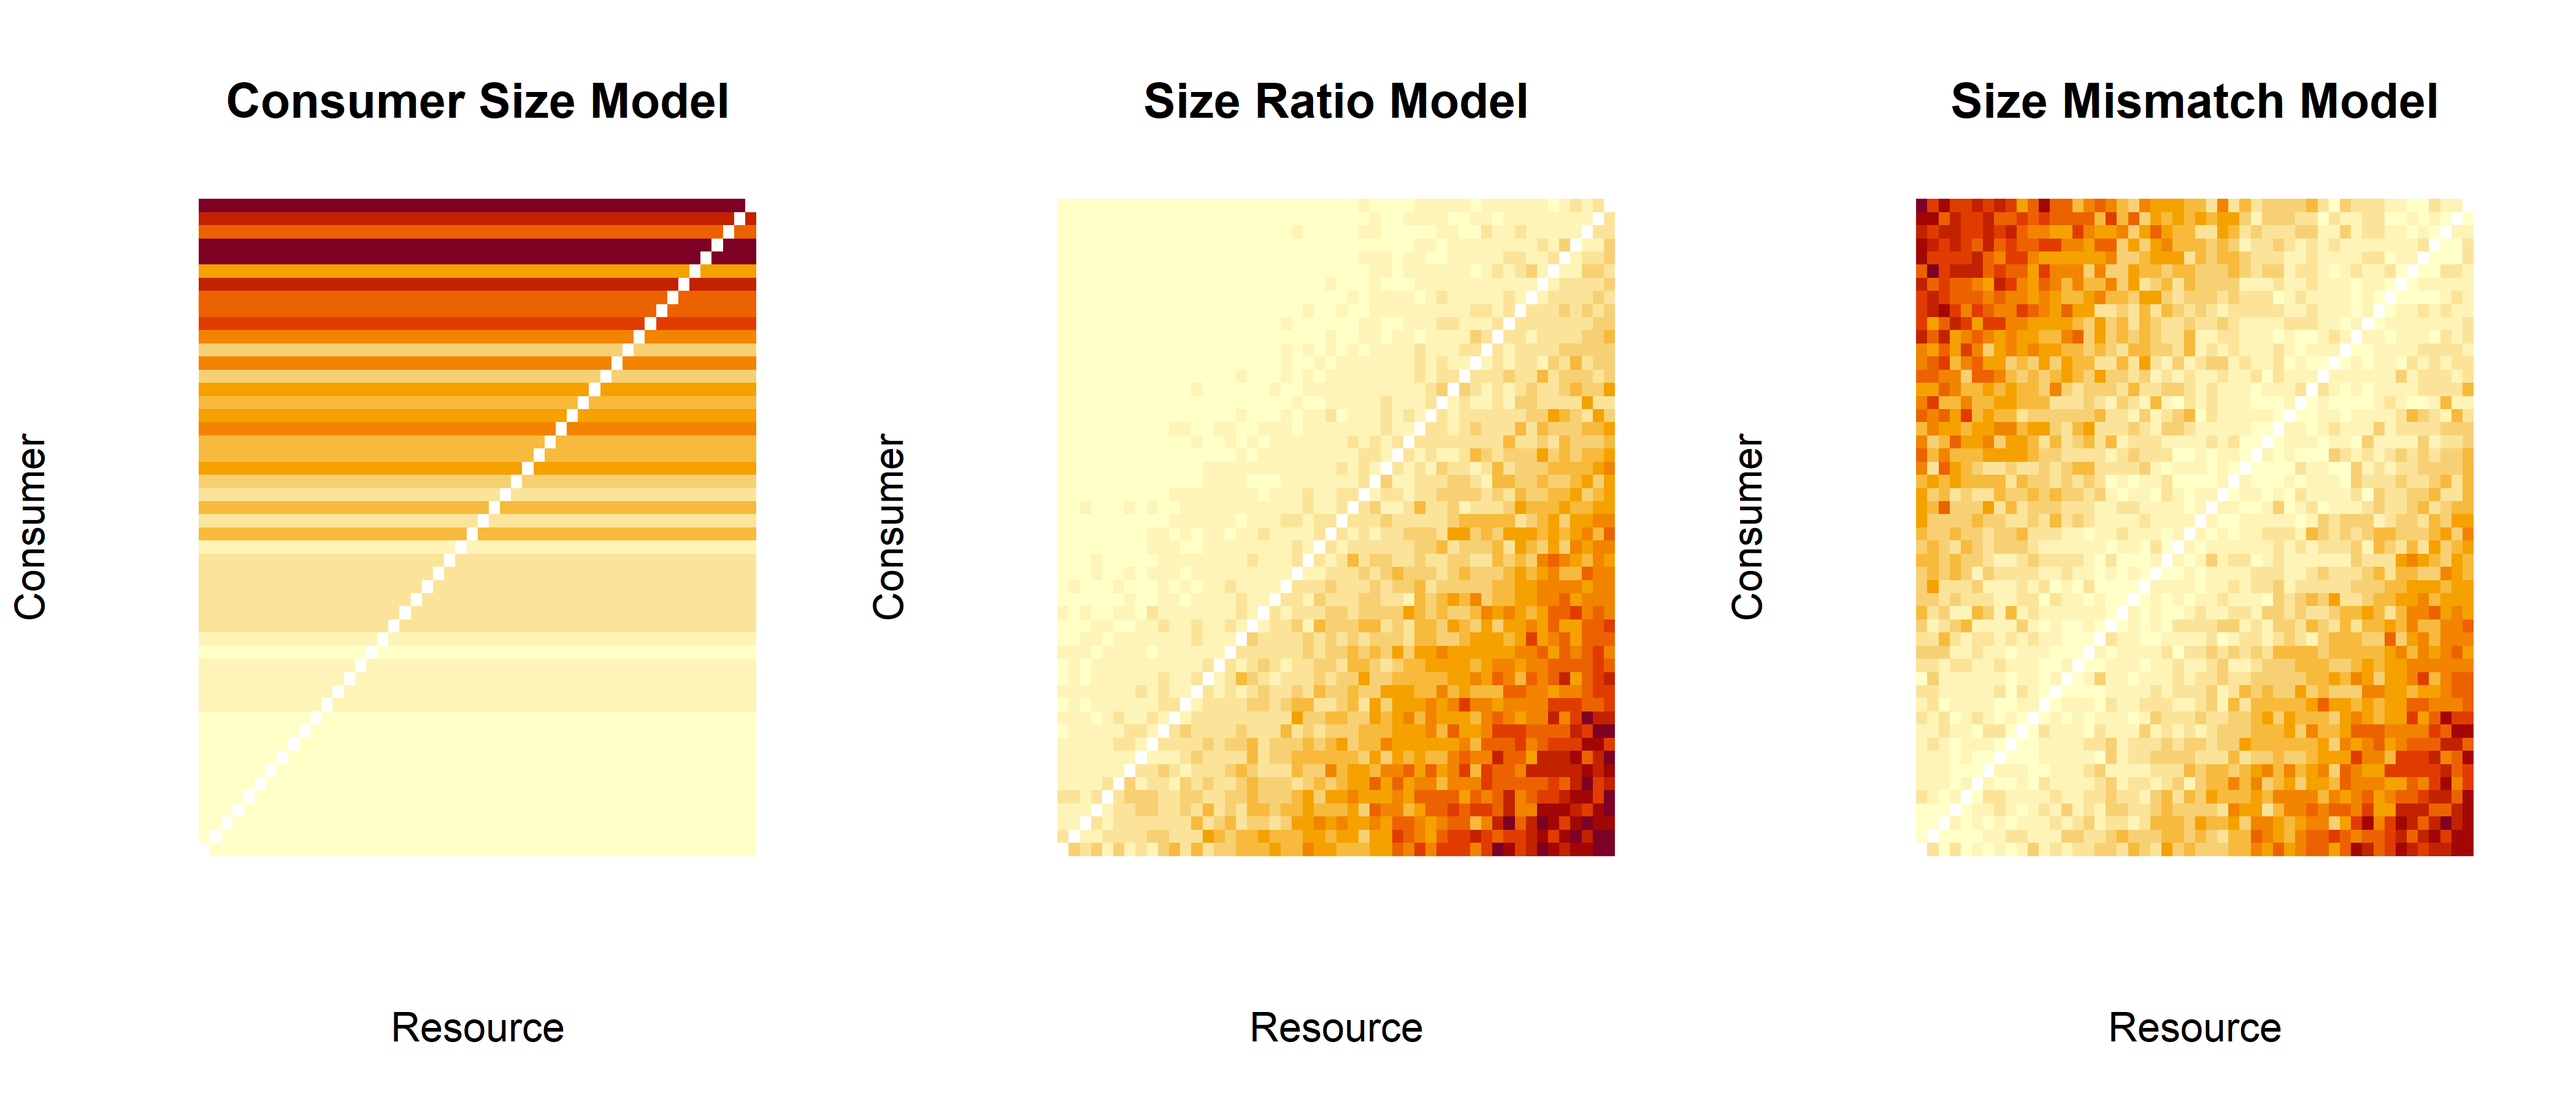
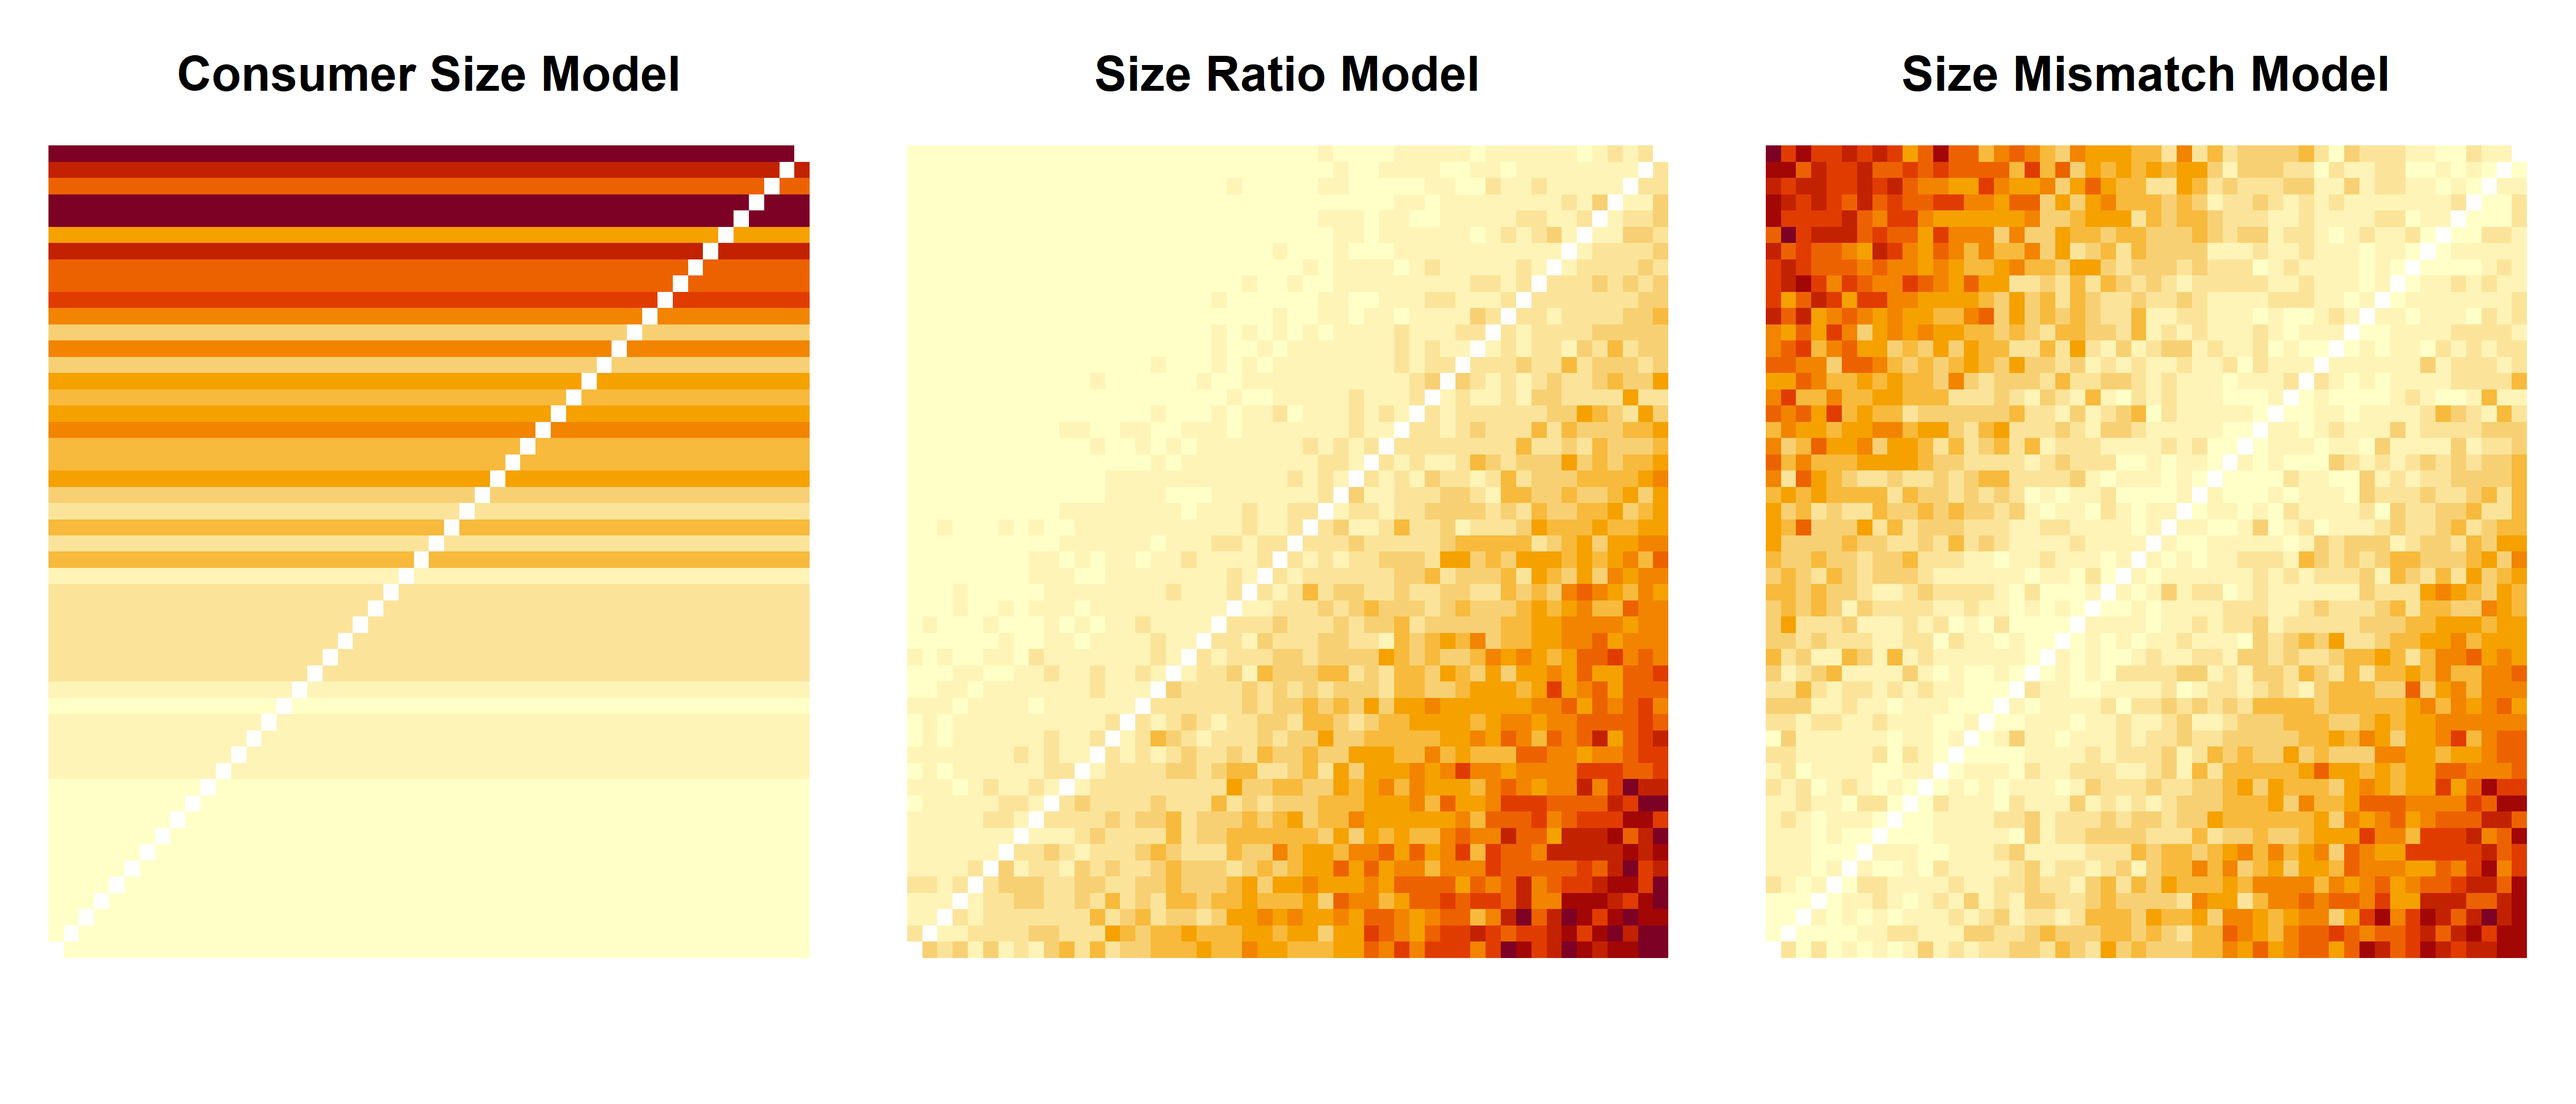
moar updates

diff --git a/docs/posts/2025-11-20-food-web-measurement-2/index.html b/docs/posts/2025-11-20-food-web-measurement-2/index.html
@@ -271,9 +271,9 @@ window.Quarto = {
 <p><span class="math display">\[
 \begin{align}
 A_{ij,k} &amp;\sim \text{Bernoulli}(q_{ij,k}) \\
-q_{ij,k} &amp;= p_k \phi_{ij,k} \\
+q_{ij,k} &amp;= p_k \pi_{ij,k} \\
 p_k &amp;= \text{logit}^{-1}(\mu_{p} + \delta_{p,k}) \\
-\phi_{ij,k} &amp;= \text{logit}^{-1}(\alpha_k + u_{i,k} + v_{j,k}) \\
+\pi_{ij,k} &amp;= \text{logit}^{-1}(\alpha_k + u_{i,k} + v_{j,k}) \\
 \alpha_k &amp;= \mu_{\alpha} + \sigma_{\alpha} \alpha^{(z)}_k \\
 u_{i,k} &amp;= \sigma_u u^{(z)}_{i,k} \\
 v_{j,k} &amp;= \sigma_v v^{(z)}_{j,k} \\
@@ -289,7 +289,7 @@ p^{(z)}_k, \alpha^{(z)}_k, u^{(z)}_{i,k},v^{(z)}_{j,k} &amp;\sim \mathcal{N}(0,1
 </thead>
 <tbody>
 <tr class="odd">
-<td><span class="math inline">\(\phi_{ij,k}\)</span></td>
+<td><span class="math inline">\(\pi_{ij,k}\)</span></td>
 <td>true ecological interaction probability</td>
 </tr>
 <tr class="even">
@@ -348,7 +348,7 @@ p^{(z)}_k, \alpha^{(z)}_k, u^{(z)}_{i,k},v^{(z)}_{j,k} &amp;\sim \mathcal{N}(0,1
 </section>
 <section id="size-ratio-model" class="level3">
 <h3 class="anchored" data-anchor-id="size-ratio-model">Size Ratio Model</h3>
-<p>An second approach could be that it is the ratio of <span class="math inline">\(M_i\)</span> to <span class="math inline">\(M_j\)</span> that influences detection. Since both covariates are on a log scale, we compute the difference between them and estimate the effect <span class="math inline">\(\beta_R\)</span>.</p>
+<p>An second approach could hypothesize that it is the ratio of <span class="math inline">\(M_i\)</span> to <span class="math inline">\(M_j\)</span> that influences detection. Since both covariates are on a log scale, we compute the difference between them and estimate the effect <span class="math inline">\(\beta_R\)</span>.</p>
 <p><span class="math display">\[
 \begin{align}
 \text{logit}(p_{ij,k}) &amp;= \mu_p + \beta_R (M_i - M_j) + \sigma_p p^{(z)}_{ij,k}
@@ -424,18 +424,18 @@ p^{(z)}_k, \alpha^{(z)}_k, u^{(z)}_{i,k},v^{(z)}_{j,k} &amp;\sim \mathcal{N}(0,1
 <div class="cell">
 <div class="sourceCode cell-code" id="cb2"><pre class="sourceCode r code-with-copy"><code class="sourceCode r"><span id="cb2-1"><a href="#cb2-1" aria-hidden="true" tabindex="-1"></a>order_idx <span class="ot">=</span> <span class="fu">order</span>(M)</span>
 <span id="cb2-2"><a href="#cb2-2" aria-hidden="true" tabindex="-1"></a></span>
-<span id="cb2-3"><a href="#cb2-3" aria-hidden="true" tabindex="-1"></a><span class="fu">par</span>(<span class="at">mfrow=</span><span class="fu">c</span>(<span class="dv">1</span>,<span class="dv">3</span>))</span>
+<span id="cb2-3"><a href="#cb2-3" aria-hidden="true" tabindex="-1"></a><span class="fu">par</span>(<span class="at">mfrow=</span><span class="fu">c</span>(<span class="dv">1</span>,<span class="dv">3</span>), <span class="at">mar=</span><span class="fu">c</span>(<span class="dv">3</span>,<span class="dv">1</span>,<span class="dv">3</span>,<span class="dv">1</span>))</span>
 <span id="cb2-4"><a href="#cb2-4" aria-hidden="true" tabindex="-1"></a><span class="fu">image</span>(pM_mat[order_idx, order_idx], </span>
 <span id="cb2-5"><a href="#cb2-5" aria-hidden="true" tabindex="-1"></a>      <span class="at">main=</span><span class="st">'Consumer Size Model'</span>, </span>
 <span id="cb2-6"><a href="#cb2-6" aria-hidden="true" tabindex="-1"></a>      <span class="at">xlab=</span><span class="st">'Resource'</span>, <span class="at">ylab=</span><span class="st">'Consumer'</span>, </span>
 <span id="cb2-7"><a href="#cb2-7" aria-hidden="true" tabindex="-1"></a>      <span class="at">axes=</span>F)</span>
 <span id="cb2-8"><a href="#cb2-8" aria-hidden="true" tabindex="-1"></a><span class="fu">image</span>(pR_mat[order_idx, order_idx], </span>
 <span id="cb2-9"><a href="#cb2-9" aria-hidden="true" tabindex="-1"></a>      <span class="at">main=</span><span class="st">'Size Ratio Model'</span>, </span>
-<span id="cb2-10"><a href="#cb2-10" aria-hidden="true" tabindex="-1"></a>      <span class="at">xlab=</span><span class="st">'Resource'</span>, <span class="at">ylab=</span><span class="st">'Consumer'</span>, </span>
+<span id="cb2-10"><a href="#cb2-10" aria-hidden="true" tabindex="-1"></a>      <span class="at">xlab=</span><span class="st">'Resource'</span>, <span class="at">ylab=</span><span class="st">''</span>, </span>
 <span id="cb2-11"><a href="#cb2-11" aria-hidden="true" tabindex="-1"></a>      <span class="at">axes=</span>F)</span>
 <span id="cb2-12"><a href="#cb2-12" aria-hidden="true" tabindex="-1"></a><span class="fu">image</span>(pA_mat[order_idx, order_idx], </span>
 <span id="cb2-13"><a href="#cb2-13" aria-hidden="true" tabindex="-1"></a>      <span class="at">main=</span><span class="st">'Size Mismatch Model'</span>, </span>
-<span id="cb2-14"><a href="#cb2-14" aria-hidden="true" tabindex="-1"></a>      <span class="at">xlab=</span><span class="st">'Resource'</span>, <span class="at">ylab=</span><span class="st">'Consumer'</span>, </span>
+<span id="cb2-14"><a href="#cb2-14" aria-hidden="true" tabindex="-1"></a>      <span class="at">xlab=</span><span class="st">'Resource'</span>, <span class="at">ylab=</span><span class="st">''</span>, </span>
 <span id="cb2-15"><a href="#cb2-15" aria-hidden="true" tabindex="-1"></a>      <span class="at">axes=</span>F)</span></code><button title="Copy to Clipboard" class="code-copy-button"><i class="bi"></i></button></pre></div>
 <div class="cell-output-display">
 <div>

diff --git a/docs/posts/posts.html b/docs/posts/posts.html
@@ -262,7 +262,7 @@ Nov 17, 2025
 </a>
 </div>
 </div>
[2 lines of base64/hex data omitted]
 <div class="thumbnail"><a href="../posts/2025-11-20-food-web-measurement-2/index.html" class="no-external">
 
 <p class="card-img-top"><img src="2025-11-20-food-web-measurement-2\index_files\figure-html\unnamed-chunk-3-1.png"  class="thumbnail-image card-img"/></p>
